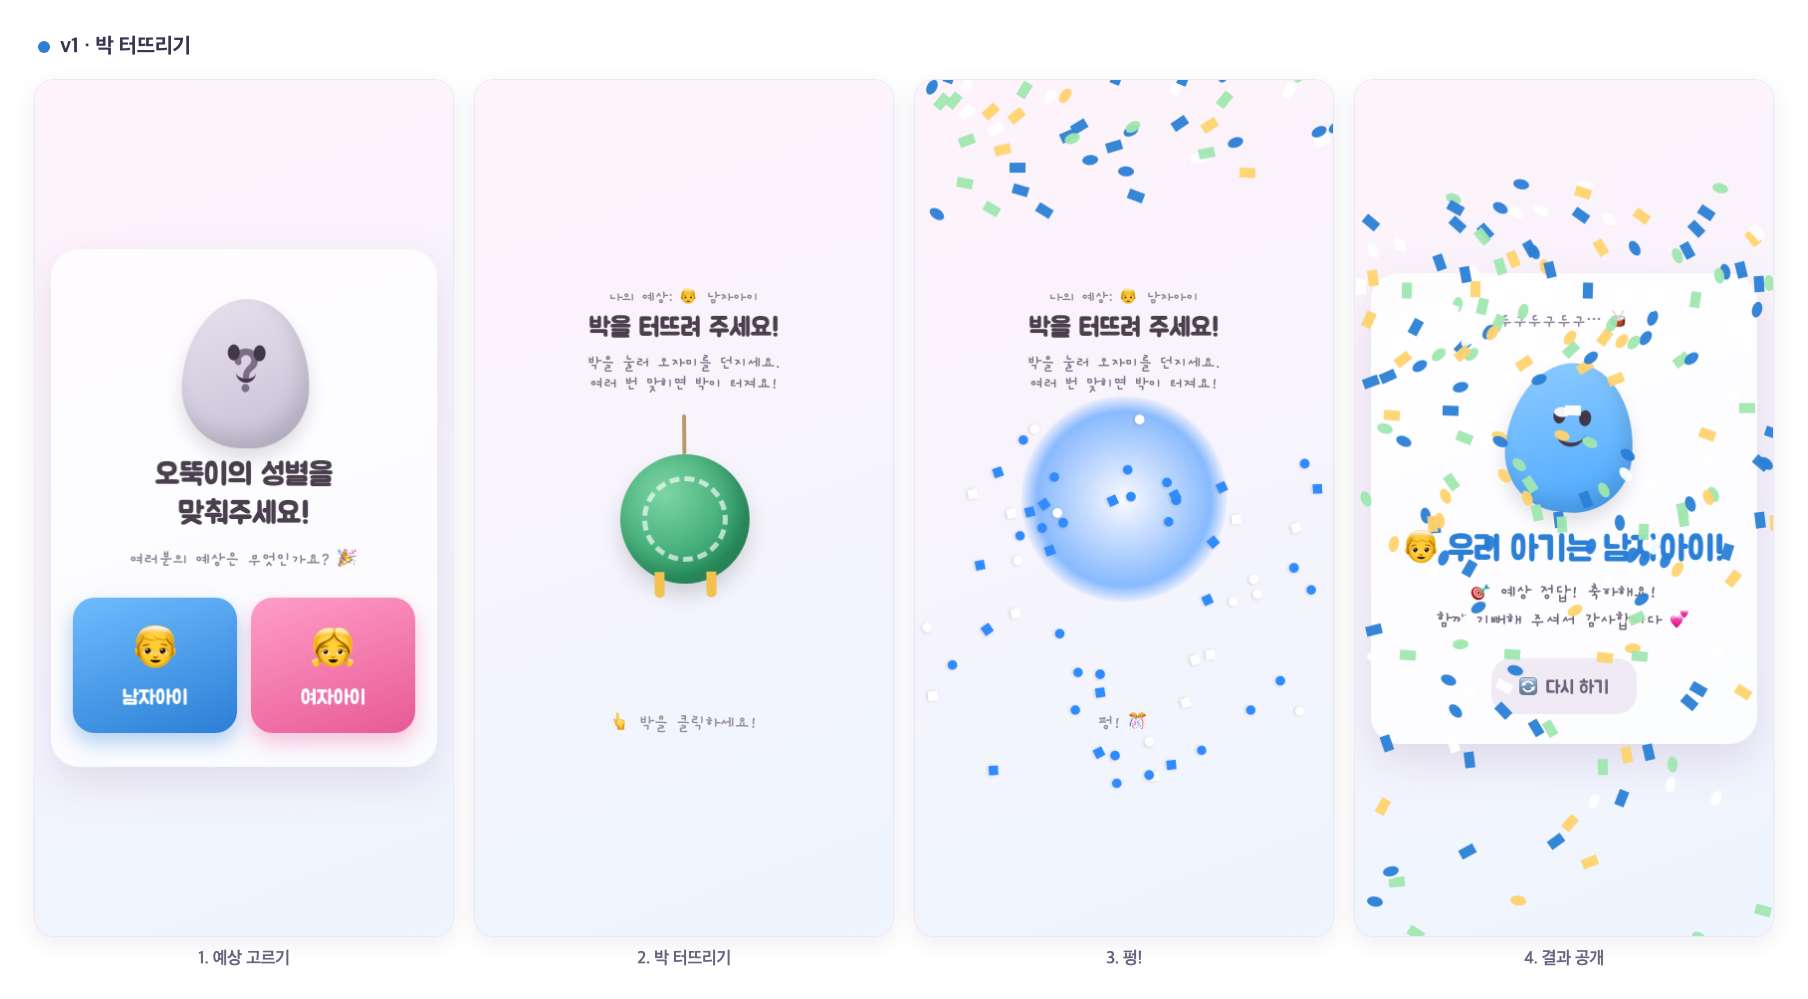
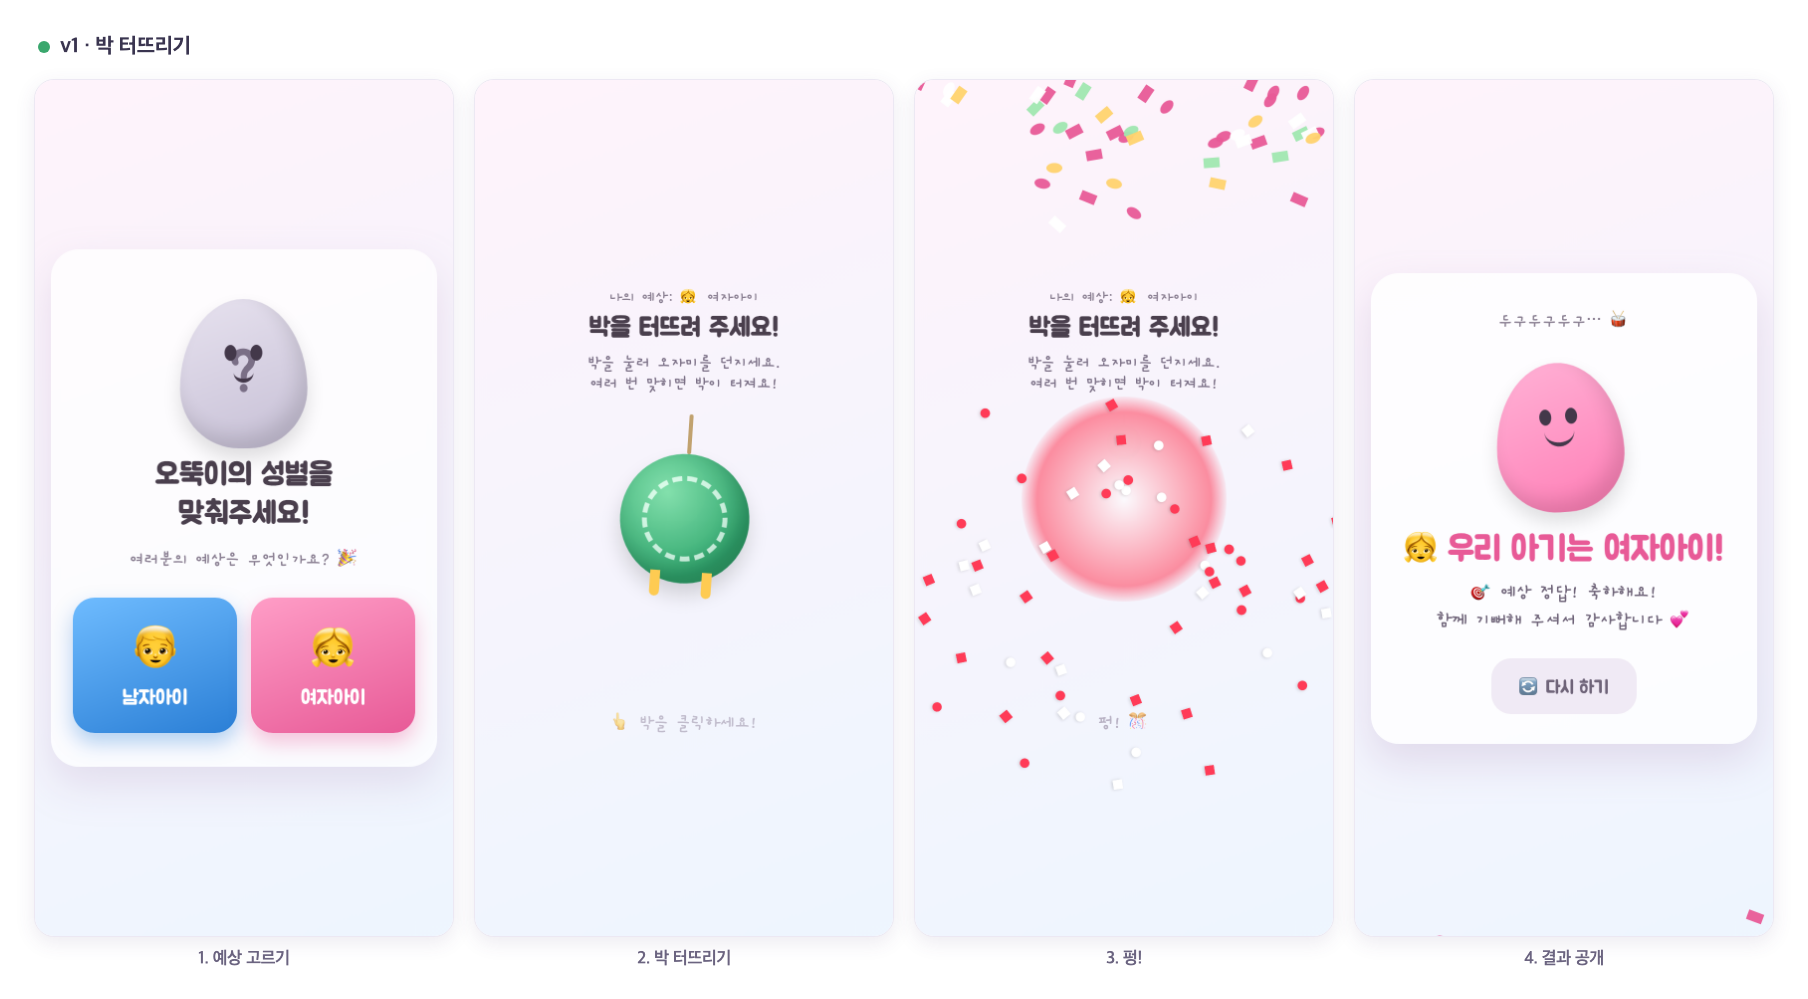
readme 추가

diff --git a/README.md b/README.md
@@ -1,0 +1,151 @@
+# 🍼 젠더리빌 (Gender Reveal)
+
+아기 성별을 가족·친구들과 함께 공개하는 웹 미니게임입니다.
+링크만 열면 바로 시작되고, 설치도 회원가입도 없습니다.
+
+라이브러리·빌드 도구 없이 **순수 HTML + CSS + JavaScript**로만 만들었습니다.
+
+## 공통 흐름
+
+세 버전 모두 진행 방식은 같습니다.
+
+1. 참여자가 **자기 예상(아들/딸)** 을 고른다
+2. 버전별 **미니게임**을 하나 클리어한다
+3. 클리어하는 순간 **실제 성별이 공개**되고 색종이가 쏟아진다
+
+---
+
+## v1 · 박 터뜨리기 🎊
+
+![v1 화면 흐름](readme/v1.png)
+
+박을 누를 때마다 오자미가 날아가 박을 때리고, **10번** 맞히면 박이 터집니다.
+터지는 순간 박 안에서 성별 색이 사방으로 퍼집니다.
+
+- 실력이 필요 없어 누구나 클리어 가능
+- 대신 긴장감이 짧은 편
+
+**진입점** — [`index.html`](index.html)
+
+---
+
+## v2 · 다트로 풍선 맞추기 🎯
+
+![v2 화면 흐름](readme/v2.png)
+
+조준선이 좌우로 흔들리고 풍선도 떠다닙니다. 타이밍을 맞춰 던져야 명중합니다.
+명중 판정은 충돌 검사가 아니라 **회전축에서 풍선을 향하는 각도**와 발사 각도를 비교하는 방식이고,
+풍선까지의 거리에 따라 허용 오차를 계산합니다(가까울수록 관대).
+
+이 버전부터 **초음파 사진을 보고 예상하는 단계**가 들어갔습니다.
+
+- 난이도 조절은 [`v2/script.js`](v2/script.js) 상단 상수로
+  - `MAX_AIM_ANGLE` — 조준선이 흔들리는 최대 각도
+  - `AIM_SPEED` — 조준선 회전 속도
+  - `BALLOON_SPEED` — 풍선이 떠다니는 속도
+- 조작이 꽤 어려워서 연령대가 다양한 자리에는 비추천
+
+**진입점** — [`v2/index.html`](v2/index.html)
+
+---
+
+## v3 · 카드 뒤집기 빙고 🃏 (권장)
+
+![v3 화면 흐름](readme/v3.png)
+
+3×3 카드 9장을 하나씩 뒤집다가 **가로·세로·대각선으로 같은 그림이 3장 연속**되면
+빙고와 함께 성별이 공개됩니다. 실제 이벤트는 이 버전으로 진행했습니다.
+
+- 조작 실력이 전혀 필요 없어 누구나 참여 가능
+- 여러 명이 한 장씩 번갈아 뒤집을 수 있음
+- 카드가 열릴수록 색 비율이 드러나 긴장감이 길게 이어짐
+- 빙고 완성 후 **5초 뒤** 결과 화면으로 전환 (여운을 주는 텀)
+
+**진입점** — [`v3/index.html`](v3/index.html)
+
+### 빙고가 반대 성별로 나지 않는 이유
+
+카드를 무작위로 섞으면 정답과 반대되는 색으로 빙고가 먼저 완성될 수 있습니다.
+[`v3/script.js`](v3/script.js)의 `generateBoard()`는 rejection sampling으로 아래 조건을 모두 만족하는 배치만 채택합니다.
+
+- 정답 성별 **5칸**, 반대 성별 **4칸**
+- 완성된 빙고 라인이 **정확히 1개**
+- 그 라인이 **반드시 정답 성별**
+
+덕분에 어떤 순서로 뒤집어도 빙고는 정답 성별로만 완성됩니다.
+무한 루프 방지를 위해 시도 횟수는 500회로 제한되어 있습니다.
+
+### 예상 투표 집계 (선택)
+
+v3는 참여자가 아들/딸 버튼을 누를 때 `/log.gif?choice=boy|girl` 을 `navigator.sendBeacon`으로 호출합니다.
+화면에는 아무것도 표시되지 않고, 웹서버 액세스 로그에만 기록이 남습니다.
+
+이 로그를 `시간 \t 쿼리스트링 \t IP` 형태의 TSV로 가공해 `/guess-log.tsv` 로 서빙하면,
+[`v3/stats.html`](v3/stats.html)에서 집계를 볼 수 있습니다.
+
+- IP당 마지막 투표만 유효표로 집계
+- 아들/딸 비율 막대그래프 + 최근 투표 목록
+- 20초마다 자동 갱신
+
+로그 수집을 쓰지 않을 경우 `logGuess()` 호출만 지우면 됩니다. 게임 동작에는 영향이 없습니다.
+
+---
+
+## 시작하기
+
+### 1. 아기 성별 설정
+
+사용할 버전의 `script.js` 맨 윗줄 한 줄만 바꾸면 됩니다.
+
+```js
+const ACTUAL_GENDER = 'girl'; // 'boy' 또는 'girl'
+```
+
+게임 색상, 카드 배치, 축하 문구, 색종이 색까지 전부 이 값을 따라갑니다.
+
+### 2. 초음파 사진 교체 (v2 · v3)
+
+`v2/ultrasound.jpeg` / `v3/ultrasound.jpeg` 를 본인 사진으로 덮어씁니다. 파일명은 그대로 유지하세요.
+
+### 3. 실행
+
+`index.html` 을 브라우저로 열면 바로 실행됩니다. 빌드도 의존성 설치도 필요 없습니다.
+
+폰으로 함께 보려면 같은 네트워크에서 정적 서버를 띄우거나, 정적 호스팅에 올려 링크를 공유하면 됩니다.
+
+```bash
+python3 -m http.server 8000
+# 폰에서 http://<PC의 IP>:8000/v3/ 접속
+```
+
+---
+
+## 프로젝트 구조
+
+```
+.
+├── index.html        # v1 · 박 터뜨리기
+├── script.js
+├── style.css
+├── v2/               # v2 · 다트로 풍선 맞추기
+│   ├── index.html
+│   ├── script.js
+│   ├── style.css
+│   └── ultrasound.jpeg
+├── v3/               # v3 · 카드 뒤집기 빙고 (권장)
+│   ├── index.html
+│   ├── script.js
+│   ├── style.css
+│   ├── stats.html    # 예상 투표 집계 화면
+│   └── ultrasound.jpeg
+└── readme/           # README용 화면 이미지
+```
+
+## 기술 스택
+
+| 항목 | 내용 |
+|---|---|
+| 언어 | HTML, CSS, JavaScript (Vanilla) |
+| 빌드 | 없음 |
+| 의존성 | 없음 (Google Fonts `Gaegu`, `Jua` 만 사용) |
+| 화면 | 모바일 세로 기준 반응형 |
